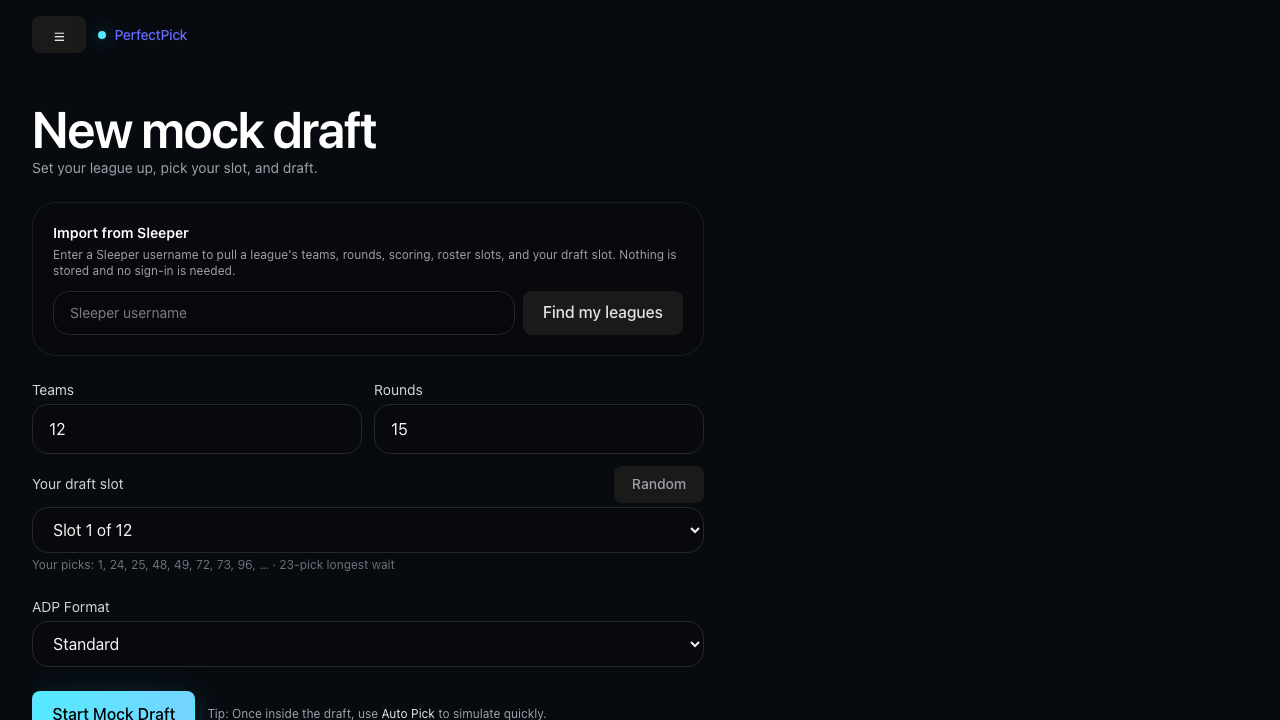
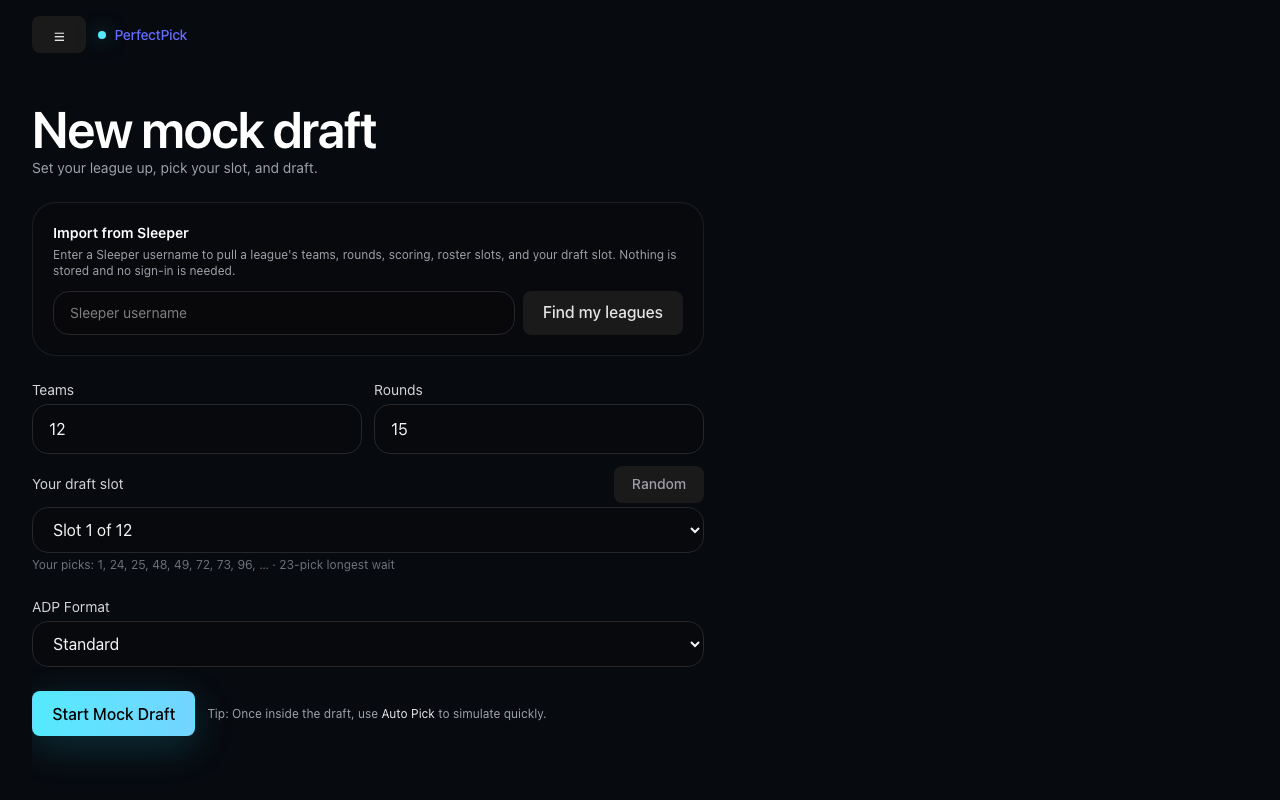
Size every screenshot viewport to its page's content
Review found newdraft.png clipped through the middle of its primary
"Start Mock Draft" button: two of the three new screenshot tests got the
taller-viewport workaround and one did not.

Checking the rest turned up results.png clipped too, cutting off Team 3
and Team 4 entirely. That one is pre-existing, not from this branch --
it has always relied on the page fitting under 900px.

Rather than guess, measured every page's real content height through the
routes wrapper, which is the actual scroller, and sized each capture to
fit: home 760, drafts 760, boards 760, newdraft 800, board 920, analysis
1010, results 1040. draft.png stays at the default, since that page is
deliberately a fixed viewport and filling it exactly is correct.

Also corrects a test comment claiming the fixture's first twelve players
are all tier 1 or 2. One is tier 3, and on a feature whose sign
convention was stated backwards three times, an inaccurate comment is
not worth leaving.

Claude-Session: https://claude.ai/code/session_01SJLTpMzn3uNFFVdgw3uu3U

diff --git a/frontend/tests/board.spec.js b/frontend/tests/board.spec.js
@@ -189,7 +189,7 @@ test("screenshot — board editor", async ({ page }) => {
   // The shell is h-dvh and the routes wrapper scrolls, so the document is
   // always viewport height and fullPage captures nothing extra. Grow the
   // viewport instead.
-  await page.setViewportSize({ width: 1280, height: 1010 });
+  await page.setViewportSize({ width: 1280, height: 920 });
   await mockBoard(page, makeBoardState());
   await page.goto(`/board/${BOARD_ID}`);
   await expect(page.getByTestId("board-row").first()).toBeVisible();
@@ -198,6 +198,10 @@ test("screenshot — board editor", async ({ page }) => {
 });
 
 test("screenshot — boards list", async ({ page }) => {
+  // fullPage is inert here: the shell is h-dvh and the routes wrapper is the
+  // scroller, so the document is always exactly viewport height. Size the
+  // viewport to the page's own content instead, or the image is clipped.
+  await page.setViewportSize({ width: 1280, height: 760 });
   await page.goto("/");
   await page.evaluate(
     (id) =>

diff --git a/frontend/tests/mydrafts.spec.js b/frontend/tests/mydrafts.spec.js
@@ -504,6 +504,10 @@ test("a legacy entry with no owned key shows Forget but not Delete", async ({ pa
 });
 
 test("screenshot — my drafts", async ({ page }) => {
+  // fullPage is inert here: the shell is h-dvh and the routes wrapper is the
+  // scroller, so the document is always exactly viewport height. Size the
+  // viewport to the page's own content instead, or the image is clipped.
+  await page.setViewportSize({ width: 1280, height: 760 });
   await seed(page, [IN_PROGRESS, COMPLETED]);
   await page.goto("/drafts");
   await expect(page.getByTestId("my-drafts-list")).toBeVisible();

diff --git a/frontend/tests/results.spec.js b/frontend/tests/results.spec.js
@@ -97,6 +97,10 @@ test.describe("Results page", () => {
   });
 
   test("screenshot — results page", async ({ page }) => {
+  // fullPage is inert here: the shell is h-dvh and the routes wrapper is the
+  // scroller, so the document is always exactly viewport height. Size the
+  // viewport to the page's own content instead, or the image is clipped.
+  await page.setViewportSize({ width: 1280, height: 1040 });
     await page.goto(`/draft/${DRAFT_ID}/results`);
 
     await expect(page.getByRole("heading", { name: "Draft Results" })).toBeVisible();

diff --git a/frontend/tests/home.spec.js b/frontend/tests/home.spec.js
@@ -29,6 +29,10 @@ test.describe("Home page", () => {
   });
 
   test("screenshot — home page", async ({ page }) => {
+  // fullPage is inert here: the shell is h-dvh and the routes wrapper is the
+  // scroller, so the document is always exactly viewport height. Size the
+  // viewport to the page's own content instead, or the image is clipped.
+  await page.setViewportSize({ width: 1280, height: 760 });
     await page.goto("/");
     await expect(page.getByRole("heading", { name: /Draft smarter/i })).toBeVisible();
 

diff --git a/frontend/tests/newdraft.spec.js b/frontend/tests/newdraft.spec.js
@@ -55,6 +55,10 @@ test.describe("New Draft page", () => {
 });
 
 test("screenshot — new draft", async ({ page }) => {
+  // fullPage is inert here: the shell is h-dvh and the routes wrapper is the
+  // scroller, so the document is always exactly viewport height. Size the
+  // viewport to the page's own content instead, or the image is clipped.
+  await page.setViewportSize({ width: 1280, height: 800 });
   await page.goto("/draft/new");
   await expect(page.getByLabel("Teams")).toBeVisible();
 

diff --git a/frontend/tests/analysis.spec.js b/frontend/tests/analysis.spec.js
@@ -178,7 +178,7 @@ test("an unrelated query parameter survives switching tabs", async ({ page }) =>
 
 test("the tier haul is shown", async ({ page }) => {
   await openResults(page, makeCompletedDraft(), "?view=analysis");
-  // The fixture's first twelve players are all tier 1 or 2.
+  // Team 1 takes McCaffrey (tier 1) plus two tier-2 receivers.
   await expect(page.getByTestId("tier-haul")).toContainText("Tier 1");
 });
 
